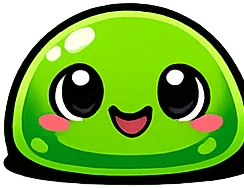
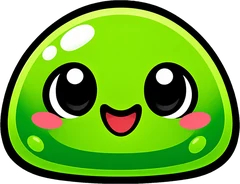
New Blob sprite (same as in game)
Claude-Session: https://claude.ai/code/session_01Lpi7x4bRAP269dr1pr6KFx

diff --git a/index.html b/index.html
@@ -397,7 +397,7 @@ section { padding: clamp(64px, 10vw, 120px) 0; }
     if (h.hp > 0) {
       h.img.src = A + m.k + "_hit.webp";
       pop("THONK!", x, y);
-      setTimeout(() => { if (h.mon === m) { h.el.classList.remove("hit"); h.img.src = A + m.k + (h.hp * 2 <= m.hp ? "_damaged.webp" : "_idle1.webp"); } }, 140);
+      setTimeout(() => { if (h.mon === m) { h.el.classList.remove("hit"); h.img.src = A + m.k + (h.hp * 2 <= m.hp ? "_damaged.webp" : "_idle1.webp?v=2"); } }, 140);
       return;
     }
     h.img.src = A + m.k + "_death.webp";
@@ -413,7 +413,7 @@ section { padding: clamp(64px, 10vw, 120px) 0; }
       const h = free[Math.floor(Math.random() * free.length)];
       const m = pick();
       h.mon = m; h.hp = m.hp || 0;
-      h.img.src = A + m.k + "_idle1.webp";
+      h.img.src = A + m.k + "_idle1.webp?v=2";
       h.img.style.setProperty("--s", m.s || 1);
       h.el.classList.remove("hit");
       requestAnimationFrame(() => h.el.classList.add("up"));
@@ -453,7 +453,7 @@ section { padding: clamp(64px, 10vw, 120px) 0; }
     btn.addEventListener("click", () => {
       const f = (k === "bombe" || k === "red_bomb") ? "_death" : (k === "mimique" || k === "necromancien") ? "_damaged" : "_hit";
       img.src = A + k + f + ".webp";
-      setTimeout(() => { img.src = A + k + "_idle1.webp"; }, 700);
+      setTimeout(() => { img.src = A + k + "_idle1.webp?v=2"; }, 700);
     });
     rosterEl.appendChild(d);
   });

diff --git a/how-to-play.html b/how-to-play.html
@@ -56,7 +56,7 @@ details p { margin: 10px 0 2px; }
   <h1>How to play</h1>
   <p class="date">Everything you need to know before your first bonk. The rest, the game will teach you.</p>
 
-  <div class="tip"><img src="assets/blob_idle1.webp" alt=""><p><strong>Tap the monsters.</strong> They pop out of the holes and don't stay long. One tap for a Blob, a few more for the tougher ones.</p></div>
+  <div class="tip"><img src="assets/blob_idle1.webp?v=2" alt=""><p><strong>Tap the monsters.</strong> They pop out of the holes and don't stay long. One tap for a Blob, a few more for the tougher ones.</p></div>
   <div class="tip"><img src="assets/bombe_idle1.webp" alt=""><p><strong>Never tap a bomb.</strong> It explodes and costs you a heart. Leave it alone, it will go away on its own.</p></div>
   <div class="tip"><img src="assets/heart.webp" alt=""><p><strong>Watch your hearts.</strong> Tapping an empty hole, letting a monster escape or tapping something you shouldn't costs a bit of life. No hearts left, game over.</p></div>
 
